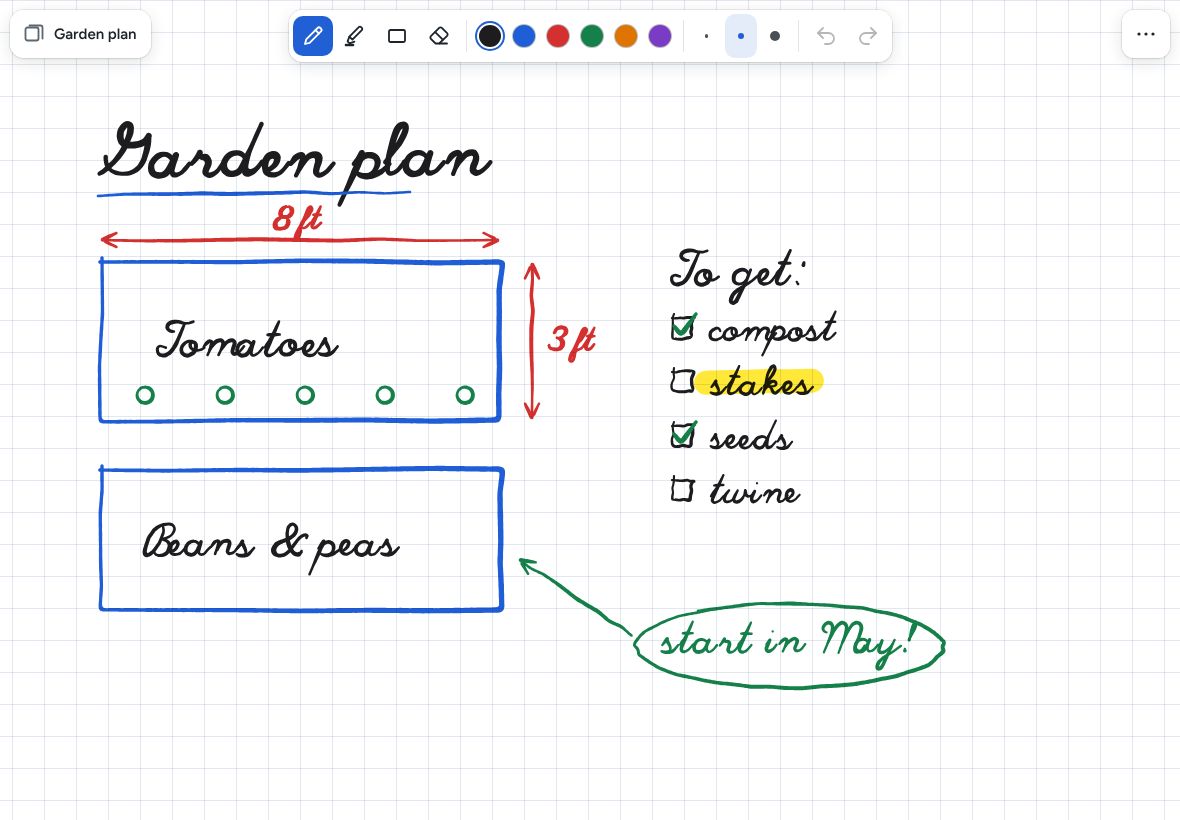
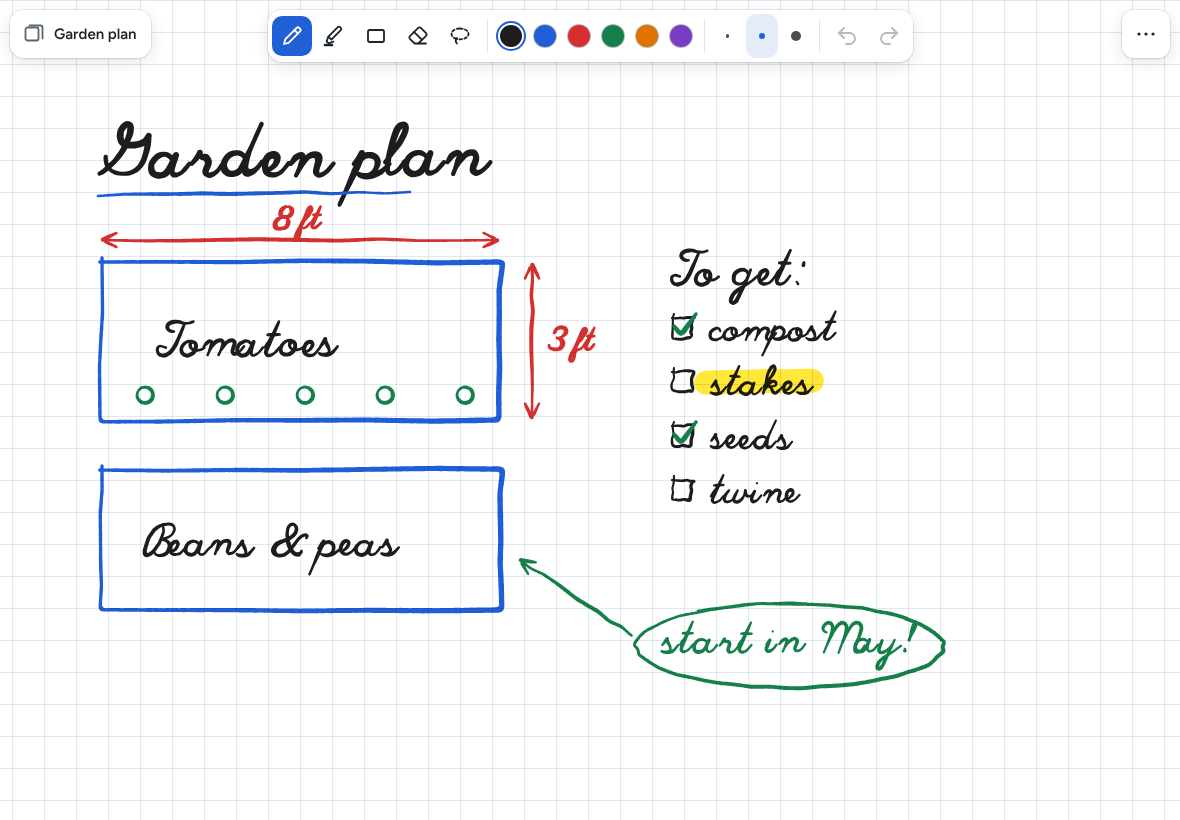
The README's pictures of a board show the lasso in the toolbar
The toolbar gained the lasso, so the tablet and phone pictures in the README showed one tool fewer than the page. This goes with Mark's 'Lasso: pick up lines and move, copy, recolour or delete them'. tools/screenshots.mjs drew them again; only the tablet board and the phone board changed beyond a pixel or two (the menu, the list of boards and the link preview were left as they were), and the tablet picture's description names the lasso.

Claude-Session: https://claude.ai/code/session_01PQbLNUvRMPCiJKAR12LKFV

Changed region(s): [[0.2136, 0.0, 0.7627, 0.0915]]

diff --git a/README.md b/README.md
@@ -8,7 +8,7 @@ as a picture, or turn on Google Drive and they go into a folder in your own Driv
 device too. There's no account, no ads and no server.
 
 <p align="center">
-  <img src="docs/tablet-board.png" alt="A tablet-sized board on a faint grid: 'Garden plan' written in black ink, two blue boxes labelled Tomatoes and Beans & peas with red dimension arrows marked 8 ft and 3 ft, a 'To get' checklist with 'stakes' highlighted in yellow, and 'start in May!' circled in green. Above it, a floating toolbar with pen, highlighter, shapes and eraser, six colours, three sizes, undo and redo" width="760">
+  <img src="docs/tablet-board.png" alt="A tablet-sized board on a faint grid: 'Garden plan' written in black ink, two blue boxes labelled Tomatoes and Beans & peas with red dimension arrows marked 8 ft and 3 ft, a 'To get' checklist with 'stakes' highlighted in yellow, and 'start in May!' circled in green. Above it, a floating toolbar with pen, highlighter, shapes, eraser and lasso, six colours, three sizes, undo and redo" width="760">
 </p>
 
 <p align="center">
